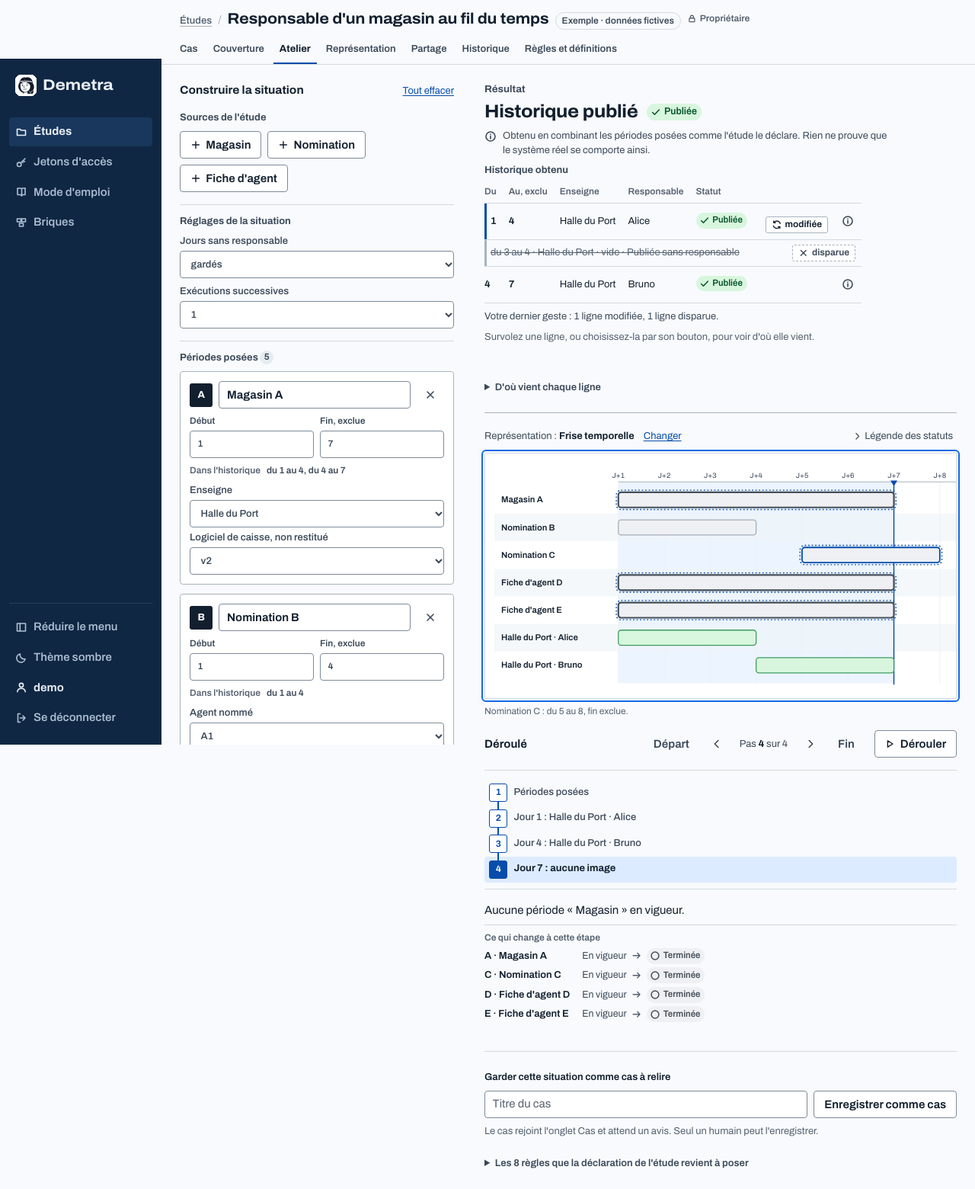
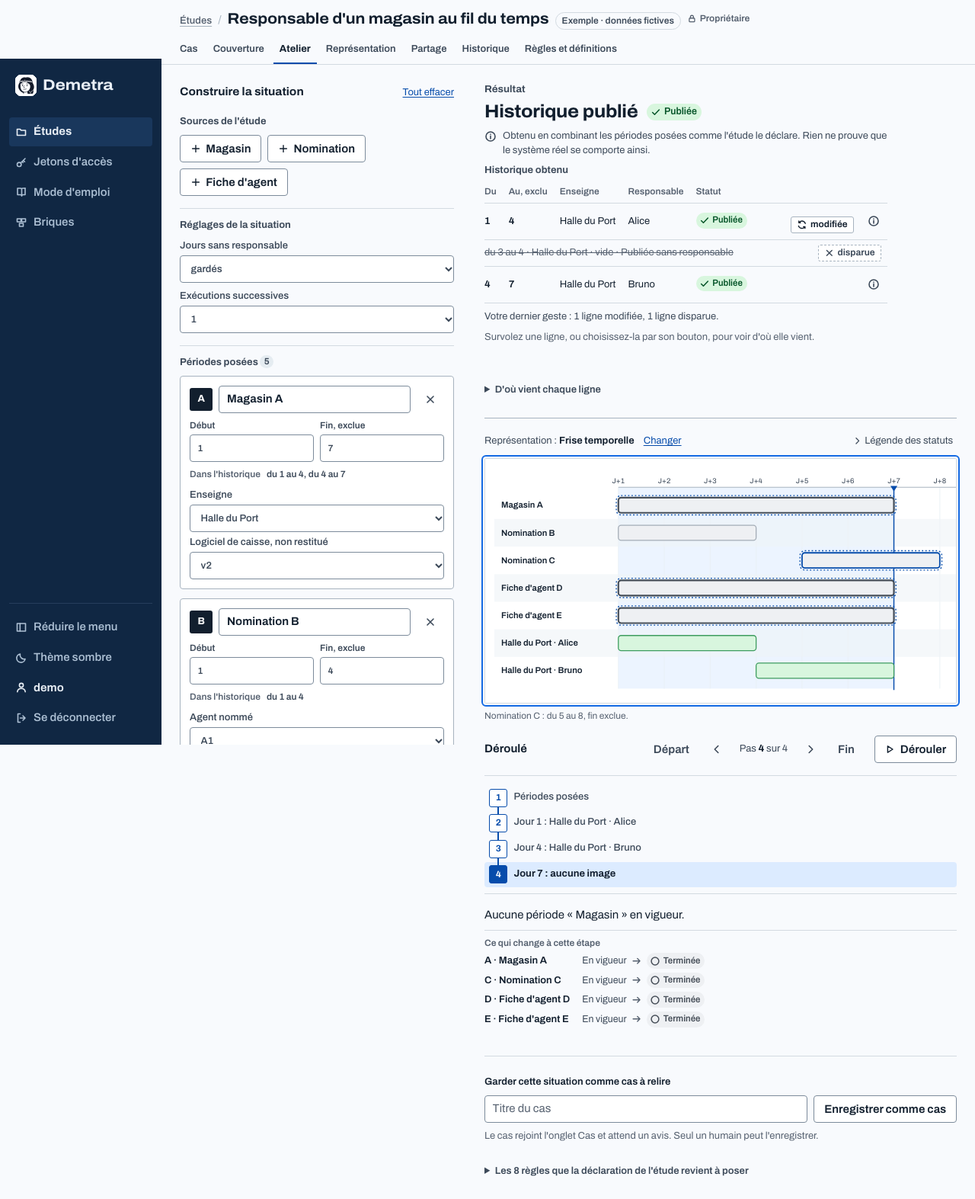
Finir l'écran d'atelier : geste au doigt et corrections de la revue de finition
- Au doigt : un toucher qui part d'une barre de la frise ou d'une brique
  ne fait plus défiler le cadre ni la page (le défilement annulait le
  geste). Parcours navigateur en émulation tactile à 390 px.
- Aucun liseré latéral sur une ligne marquée : le cartouche (mot et
  icône) porte seul la marque, comme le demande DESIGN.md.
- La place du mot du dernier geste est réservée : le tableau ne
  s'élargit plus quand les marques arrivent.
- Sous 900 px, la dernière colonne du tableau n'est plus collante (elle
  recouvrait le statut) : le tableau se resserre et défile dans son
  cadre, atteignable au clavier et annoncé « défilement possible ».
- Dans un tableau d'exécution, le mot du changement ouvre la ligne : il
  reste en vue sur petit écran.
- Cibles d'au moins 24 px (liens et titres dépliables), 2.75rem sous
  900 px ; réserves de la phrase de provenance et de celle du dernier
  geste sur petit écran ; anneau de focus entier sur le bouton de
  provenance.
- Famille « périodes » : « Nom de la période », « Retirer cette
  période », « périodes au plus par situation ».
- La phrase d'une exécution sépare ce qui change de ce qui est écrit :
  « 1 ligne modifiée ; à l'écriture : 1 ligne supprimée et 1 ligne
  écrite. » Mode d'emploi version 2026-11-25.5, exemple rejoué.
- README, DESIGN, PRODUCT, brief de surface, captures 40 à 49.

diff --git a/core/templates/core/_workshop.html b/core/templates/core/_workshop.html
@@ -16,7 +16,7 @@
       <div class="at-palette-list">
         {% for b in palette.bricks %}<button type="submit" class="btn at-add" name="add" value="{{ b.type }}"{% if palette.full %} disabled{% endif %}><svg class="ic" aria-hidden="true"><use href="#ui-plus"/></svg>{{ b.label }}</button>{% endfor %}
       </div>
-      {% if palette.full %}<p class="hint">{{ palette.max }} briques au plus par situation.</p>{% endif %}
+      {% if palette.full %}<p class="hint">{{ palette.max }} {{ words.most }}</p>{% endif %}
     </section>
 
     {% if palette.settings or palette.runs %}
@@ -34,9 +34,9 @@
         <li class="at-card" data-brick="{{ c.id }}" data-kind="{{ c.kind }}">
           <div class="at-card-head">
             <span class="at-id" aria-hidden="true">{{ c.id }}</span>
-            <label class="sr-only" for="at-name-{{ c.id }}">Nom de la brique {{ c.id }} ({{ c.brick }})</label>
+            <label class="sr-only" for="at-name-{{ c.id }}">{{ words.name }} {{ c.id }} ({{ c.brick }})</label>
             <input id="at-name-{{ c.id }}" class="at-name" type="text" name="n.{{ c.id }}" value="{{ c.label }}" maxlength="40" placeholder="{{ c.placeholder }}" autocomplete="off">
-            <button type="submit" class="icon-btn" name="del" value="{{ c.id }}" aria-label="Retirer {{ c.label }}" title="Retirer cette brique"><svg class="ic" aria-hidden="true"><use href="#ui-close"/></svg></button>
+            <button type="submit" class="icon-btn" name="del" value="{{ c.id }}" aria-label="Retirer {{ c.label }}" title="{{ words.remove }}"><svg class="ic" aria-hidden="true"><use href="#ui-close"/></svg></button>
           </div>
           {% if c.bounds %}
           <div class="at-bounds" role="group" aria-label="Bornes de {{ c.label }} sur l'axe « {{ c.bounds.axis }} »">
@@ -92,7 +92,7 @@
       <p class="at-source"><svg class="ic" aria-hidden="true"><use href="#ui-info"/></svg><span>{% if result.history %}Obtenu en combinant les périodes posées comme l'étude le déclare.{% elif result.steps %}Obtenu en {{ result.steps }} pas, en appliquant les règles que l'étude déclare.{% else %}Aucune règle de l'étude ne s'applique à cette situation : rien ne bouge.{% endif %} Rien ne prouve que le système réel se comporte ainsi.</span></p>
       {% if result.blocking %}<div class="notice notice-changed"><svg class="ic" aria-hidden="true"><use href="#ui-warning"/></svg><div><p>Le traitement est bloqué : rien n'est publié.</p><ul class="at-blocking">{% for reason in result.blocking %}<li>{{ reason }}</li>{% endfor %}</ul></div></div>{% endif %}
       {% if result.history %}
-      <div class="at-history-wrap">
+      <div class="at-history-wrap" tabindex="0" role="region" aria-label="Historique obtenu — défilement possible">
       <table class="at-history">
         <caption>Historique obtenu{% if result.runs %} à la dernière exécution{% endif %}{% if result.blocking %} s'il était publié{% endif %}</caption>
         <thead><tr><th scope="col">Du</th><th scope="col">Au, exclu</th>{% for name in result.history.fields %}<th scope="col">{{ name }}</th>{% endfor %}<th scope="col">Statut</th><th scope="col" class="at-row-end"><span class="sr-only">Provenance</span></th></tr></thead>
@@ -159,13 +159,13 @@
           {% if run.news or run.gone %}<p class="at-run-known">{% if run.news %}<span>{% if run.n == 1 %}Périodes connues{% else %}Connues depuis cette exécution{% endif %} : {{ run.news|join:", " }}.</span>{% endif %}{% if run.gone %} <span>Ne sont plus connues : {{ run.gone|join:", " }}.</span>{% endif %}</p>{% endif %}
           {% if run.blocking %}<ul class="at-blocking">{% for reason in run.blocking %}<li>{{ reason }}</li>{% endfor %}</ul>{% endif %}
           {% if run.lines or run.removed %}
-          <div class="at-history-wrap">
+          <div class="at-history-wrap" tabindex="0" role="region" aria-label="{{ run.title }} — défilement possible">
           <table class="at-history at-history-run">
             <caption class="sr-only">Ce qui est publié après {{ run.title }}</caption>
-            <thead><tr><th scope="col">Du</th><th scope="col">Au, exclu</th>{% for name in result.history.fields %}<th scope="col">{{ name }}</th>{% endfor %}<th scope="col">Statut</th><th scope="col" class="at-row-end"><span class="sr-only">Ce que fait cette exécution</span></th></tr></thead>
+            <thead><tr><th scope="col" class="at-row-start"><span class="sr-only">Ce que fait cette exécution</span></th><th scope="col">Du</th><th scope="col">Au, exclu</th>{% for name in result.history.fields %}<th scope="col">{{ name }}</th>{% endfor %}<th scope="col">Statut</th></tr></thead>
             <tbody>
-              {% for row in run.lines %}<tr{% if row.row %} class="{{ row.row }}"{% endif %} data-change="{{ row.change }}"><td class="num">{{ row.start }}</td><td class="num">{{ row.end }}</td>{% for value in row.values %}<td>{% if value %}{{ value }}{% else %}<span class="at-void">vide</span>{% endif %}</td>{% endfor %}<td><span class="st" data-role="{{ row.role }}"><svg class="st-ic" width="14" height="14" aria-hidden="true"><use href="#ic-{{ row.role }}"/></svg><span class="st-tx">{{ row.status }}</span></span></td><td class="at-row-end"><span class="at-delta at-delta-{{ row.change }}"{% if row.was %} title="Avant : {{ row.was }}"{% endif %}><svg class="ic" aria-hidden="true"><use href="#ui-{{ row.icon }}"/></svg>{{ row.word }}</span>{% if row.was %}<span class="sr-only"> Avant : {{ row.was }}.</span>{% endif %}</td></tr>
-              {% endfor %}{% for row in run.removed %}<tr class="is-gone" data-change="removed"><td colspan="{{ result.history.fields|length|add:3 }}"><del>{{ row.text }}</del></td><td class="at-row-end"><span class="at-delta at-delta-removed"><svg class="ic" aria-hidden="true"><use href="#ui-close"/></svg>{{ row.word }}</span></td></tr>
+              {% for row in run.lines %}<tr{% if row.row %} class="{{ row.row }}"{% endif %} data-change="{{ row.change }}"><td class="at-row-start"><span class="at-delta at-delta-{{ row.change }}"{% if row.was %} title="Avant : {{ row.was }}"{% endif %}><svg class="ic" aria-hidden="true"><use href="#ui-{{ row.icon }}"/></svg>{{ row.word }}</span>{% if row.was %}<span class="sr-only"> Avant : {{ row.was }}.</span>{% endif %}</td><td class="num">{{ row.start }}</td><td class="num">{{ row.end }}</td>{% for value in row.values %}<td>{% if value %}{{ value }}{% else %}<span class="at-void">vide</span>{% endif %}</td>{% endfor %}<td><span class="st" data-role="{{ row.role }}"><svg class="st-ic" width="14" height="14" aria-hidden="true"><use href="#ic-{{ row.role }}"/></svg><span class="st-tx">{{ row.status }}</span></span></td></tr>
+              {% endfor %}{% for row in run.removed %}<tr class="is-gone" data-change="removed"><td class="at-row-start"><span class="at-delta at-delta-removed"><svg class="ic" aria-hidden="true"><use href="#ui-close"/></svg>{{ row.word }}</span></td><td colspan="{{ result.history.fields|length|add:3 }}"><del>{{ row.text }}</del></td></tr>
               {% endfor %}
             </tbody>
           </table>

diff --git a/core/static/core/app.css b/core/static/core/app.css
@@ -782,6 +782,9 @@ details.json pre { margin-top: var(--s-2); max-height: 24rem; }
 .at-build-head { display: flex; align-items: baseline; justify-content: space-between; gap: var(--s-3); }
 .at-build-head h2 { font-size: var(--t-md); }
 .at-build-head .link { font-size: var(--t-sm); }
+/* Cibles d'au moins 24 px : les liens et les titres dépliables de l'écran, sans changer le rythme des lignes. */
+.at-build-head .link, .at-runs-jump .link, .at-plan .cp-rep-head .link { display: inline-block; padding-block: 0.2rem; }
+.at-why > summary, .at-rules > summary { padding-block: 0.2rem; }
 .at-build h3 { color: var(--ink-2); font-size: var(--t-sm); font-weight: 680; }
 .at-palette, .at-settings, .at-placed { display: grid; gap: var(--s-2); min-width: 0; }
 .at-settings, .at-placed { padding-top: var(--s-3); border-top: 1px solid var(--line); }
@@ -837,10 +840,13 @@ details.json pre { margin-top: var(--s-2); max-height: 24rem; }
 .at-feeds > span:last-child { color: var(--ink-2); font-variant-numeric: tabular-nums; }
 /* D'où vient une ligne : on la survole ou on la choisit, ses périodes sources se détachent sur la frise, dans
    les fiches et dans la liste des règles. Sans script, la liste « D'où vient chaque ligne » dit la même chose. */
-/* La dernière colonne reste en vue quand le tableau défile dans son cadre : le mot du changement et le bouton
-   de provenance ne sortent jamais de l'écran. */
+/* La dernière colonne reste en vue quand le tableau défile dans son cadre, sauf sur petit écran (voir plus
+   bas) où elle recouvrirait le statut. */
 .at-history .at-row-end { position: sticky; right: 0; width: 1%; padding-right: 0; padding-left: var(--s-2); background: var(--surface); text-align: right; white-space: nowrap; }
 .at-why-btn { display: none; }
+.at-why-btn:focus-visible { outline-offset: -2px; }   /* dans un cadre qui défile : l'anneau reste entier */
+/* La place du mot du dernier geste est réservée : le tableau ne s'élargit pas quand les marques arrivent. */
+.atelier.is-live .at-history [data-delta-cell] { min-width: 10.5rem; }
 .atelier.is-live .at-why-btn { display: inline-grid; }
 .at-why-btn[aria-pressed="true"] { background: var(--accent-soft); color: var(--accent); }
 .atelier.is-live .at-history tbody tr[data-start] { cursor: pointer; }
@@ -859,7 +865,10 @@ details.json pre { margin-top: var(--s-2); max-height: 24rem; }
 .at-plan .tl-bar.is-traced .n-halo { stroke: var(--accent); stroke-width: 2.4; stroke-dasharray: none; opacity: 1; }
 .at-plan .tl-grip { fill: transparent; pointer-events: none; }
 /* Une période posée se déplace sur la frise, ou s'étire par un bord ; ses champs de bornes disent la même chose. */
-.atelier.is-live .at-plan .tl-bar.is-movable { cursor: grab; touch-action: none; -webkit-user-select: none; user-select: none; }
+.atelier.is-live .at-plan .tl-bar.is-movable { cursor: grab; -webkit-user-select: none; user-select: none; }
+/* Au doigt, la barre se glisse sans que la frise défile sous elle. La règle vise les formes : un groupe SVG n'a
+   pas de boîte, « touch-action » n'y a aucun effet. */
+.atelier.is-live .at-plan .tl-bar.is-movable > * { touch-action: none; }
 .atelier.is-live .at-plan .tl-bar.is-movable .tl-grip { pointer-events: all; cursor: ew-resize; }
 .atelier.is-live .at-plan .tl-bar.is-movable:hover .n-shape, .at-plan .tl-bar.is-moving .n-shape { stroke: var(--accent); stroke-width: 2; }
 .atelier.is-dragging .at-plan .tl-bar.is-moving, .atelier.is-dragging .at-plan .tl-bar.is-moving .tl-grip { cursor: grabbing; }
@@ -874,9 +883,8 @@ details.json pre { margin-top: var(--s-2); max-height: 24rem; }
 .at-delta .ic { width: 0.85rem; height: 0.85rem; }
 .at-delta-new { border-color: var(--accent); color: var(--accent); }
 .at-delta-gone { border-style: dashed; color: var(--ink-2); }
-.at-history tbody tr.is-new > td:first-child, .at-history tbody tr.is-changed > td:first-child { box-shadow: inset 3px 0 0 var(--accent); padding-left: var(--s-2); }
+/* Aucun liseré latéral sur une ligne marquée : le mot et son icône portent la marque. */
 .at-history tbody tr.is-gone > td { color: var(--ink-3); }
-.at-history tbody tr.is-gone > td:first-child { padding-left: var(--s-2); box-shadow: inset 3px 0 0 var(--line-strong); }
 .at-rules li.is-traced { background: var(--accent-soft); color: var(--ink); }
 /* Exécutions successives : ce que chacune a publié, avec le même vocabulaire de marques que le dernier geste
    (un mot et une icône par ligne, jamais la couleur seule). */
@@ -895,6 +903,9 @@ details.json pre { margin-top: var(--s-2); max-height: 24rem; }
 .at-run-known { max-width: 72ch; color: var(--ink-2); font-size: var(--t-xs); }
 .at-run .at-blocking { color: var(--ink-2); font-size: var(--t-sm); }
 .at-history-run { width: 100%; }
+/* Dans un tableau d'exécution, le mot du changement ouvre la ligne : il reste en vue quand le tableau défile. */
+.at-history .at-row-start { width: 1%; white-space: nowrap; }
+.at-history .at-row-start .at-delta { margin-right: 0; }
 .at-blocking { margin-top: var(--s-1); padding-left: 1.1em; list-style: disc; }
 .at-source { display: flex; gap: var(--s-2); align-items: flex-start; max-width: 72ch; color: var(--ink-2); font-size: var(--t-sm); }
 .at-source .ic { flex: none; margin-top: 0.2em; }
@@ -951,7 +962,20 @@ details.json pre { margin-top: var(--s-2); max-height: 24rem; }
 @media (max-width: 900px) {
   .at-grid { grid-template-columns: minmax(0, 1fr); gap: var(--s-5); }
   .at-build { position: static; max-height: none; padding-right: 0; overflow: visible; }
-  .at-jump { display: inline; font-size: var(--t-sm); }
+  .at-jump { display: inline-block; font-size: var(--t-sm); }
+  /* Cibles au doigt : les liens et les titres dépliables de l'écran font au moins 2.75rem de haut. */
+  .at-jump, .at-build-head .link, .at-runs-jump .link, .at-plan .cp-rep-head .link { display: inline-block; padding-block: 0.75rem; }
+  .at-why > summary, .at-rules > summary { padding-block: 0.75rem; }
+  /* Sur petit écran le tableau défile dans son cadre, en entier : sa dernière colonne n'est plus collante, elle
+     recouvrirait le statut. */
+  .at-history { min-width: 0; }
+  .at-history .at-row-end { position: static; }
+  .at-history th, .at-history td { padding-right: var(--s-2); }
+  /* Le tableau principal tient dans la fenêtre : sa pastille de statut passe à la ligne, en étiquette. */
+  .at-history:not(.at-history-run) .st { border-radius: var(--radius-lg); white-space: normal; }
+  .atelier.is-live .at-history [data-delta-cell] { min-width: 0; }
+  .atelier.is-live .at-trace { min-height: 7.6em; }
+  .atelier.is-live .at-delta-note { min-height: 3em; }
   .tick { min-height: 2.75rem; }
   .at-links .icon-btn { width: 2.75rem; height: 2.75rem; }
   .at-result-value { font-size: var(--t-xl); }

diff --git a/core/static/core/app.js b/core/static/core/app.js
@@ -629,6 +629,11 @@
       else if (node) drag = Object.assign(at, { id: node.dataset.e, node: node });
       else if (bar) drag = Object.assign(at, { period: bar.dataset.p, node: bar, grip: event.target.dataset.grip || "move" });
     });
+    // Au doigt : sans cela, le cadre défile sous la brique ou la barre qu'on veut glisser et le geste est annulé
+    // (« touch-action » n'a pas d'effet sur les formes d'un dessin SVG dans tous les navigateurs).
+    atelier.addEventListener("touchstart", (event) => {
+      if (event.target.closest("[data-at-plan] .tl-bar.is-movable, [data-at-plan] .n[data-e]")) event.preventDefault();
+    }, { passive: false });
     doc.addEventListener("pointermove", (event) => {
       if (!drag) return;
       if (!drag.live) {

diff --git a/tests/e2e/test_parcours.py b/tests/e2e/test_parcours.py
@@ -1011,6 +1011,56 @@ def watched(page) -> list[str]:
     return problems
 
 
+def test_atelier_frise_au_doigt(site, browser):
+    """Sur un téléphone, au doigt : glisser une période sur la frise la déplace, sans que le cadre ni la page
+    ne défilent sous elle ; toucher une barre mène à sa fiche."""
+    context = browser.new_context(
+        viewport={"width": 390, "height": 844}, locale="fr-FR", has_touch=True, is_mobile=True
+    )
+    page = context.new_page()
+    problems = watched(page)
+    login(page, site, "demo")
+    page.goto(f"{site}/etudes/")
+    page.get_by_role("link", name="Responsable d'un magasin au fil du temps").click()
+    page.goto(page.url.split("?")[0] + "atelier/?e=A%3Amagasin&e=B%3Anomination&de.A=1&a.A=7&de.B=1&a.B=3")
+    cdp = context.new_cdp_session(page)
+
+    def finger(kind: str, x: float | None = None, y: float | None = None) -> None:
+        points = [] if x is None else [{"x": x, "y": y, "id": 1}]
+        cdp.send("Input.dispatchTouchEvent", {"type": kind, "touchPoints": points})
+
+    bar = page.locator('[data-at-plan] .tl-bar[data-p="B"]')
+    bar.scroll_into_view_if_needed()
+    box = bar.locator(".n-shape").bounding_box()
+    unit = page.evaluate(
+        """() => { const svg = document.querySelector('[data-at-plan] svg[data-span]');
+        const [lo, hi, , w] = svg.dataset.span.split(' ').map(Number);
+        return w / (hi - lo) * svg.getScreenCTM().a; }"""
+    )
+    x, y = box["x"] + box["width"] / 2, box["y"] + box["height"] / 2
+    offsets = """() => { const all = [scrollY];
+        let e = document.querySelector('[data-at-plan] .tl-bar[data-p="B"]');
+        for (; e; e = e.parentElement) all.push(e.scrollLeft || 0);
+        return all; }"""
+    scrolled = page.evaluate(offsets)
+    finger("touchStart", x, y)
+    for n in range(1, 9):
+        finger("touchMove", x + 2 * unit * n / 8, y)
+        page.wait_for_timeout(20)
+    expect(page.locator("[data-at-hint-text]")).to_have_text("Nomination B : du 3 au 5, fin exclue.")
+    assert page.evaluate(offsets) == scrolled
+    finger("touchEnd")
+    expect(page.locator('input[name="de.B"]')).to_have_value("3")
+    expect(page.locator('input[name="a.B"]')).to_have_value("5")
+    # Toucher sans glisser : la fiche de la période.
+    box = page.locator('[data-at-plan] .tl-bar[data-p="A"] .n-shape').bounding_box()
+    page.touchscreen.tap(box["x"] + 20, box["y"] + box["height"] / 2)
+    expect(page.locator("#at-name-A")).to_be_focused()
+    assert page.evaluate("document.documentElement.scrollWidth <= document.documentElement.clientWidth")
+    assert not problems, problems
+    context.close()
+
+
 def test_atelier_executions_successives(site, browser):
     """L'étude de démonstration déclare des exécutions successives : on dit qu'une période n'est connue qu'à
     partir d'une exécution, et chaque exécution montre ce qu'elle ajoute, ferme, modifie, retire ou laisse."""
@@ -1037,9 +1087,12 @@ def test_atelier_executions_successives(site, browser):
     # La seconde nomination et la fiche de son agent n'arrivent qu'à la deuxième exécution.
     page.select_option('select[name="c.C"]', "2")
     page.select_option('select[name="c.E"]', "2")
-    expect(runs.nth(0).locator(".at-run-text")).to_have_text("2 lignes ajoutées ; 2 lignes écrites.")
+    expect(runs.nth(0).locator(".at-run-text")).to_have_text(
+        "2 lignes ajoutées ; à l'écriture : 2 lignes écrites."
+    )
     expect(runs.nth(1).locator(".at-run-text")).to_have_text(
-        "1 ligne ajoutée, 1 ligne fermée et 1 ligne inchangée ; 1 ligne supprimée et 2 lignes écrites."
+        "1 ligne ajoutée, 1 ligne fermée et 1 ligne inchangée ; "
+        "à l'écriture : 1 ligne supprimée et 2 lignes écrites."
     )
     expect(runs.nth(1).locator(".at-run-known")).to_have_text(
         "Connues depuis cette exécution : Nomination C, Fiche d'agent E."
@@ -1052,7 +1105,8 @@ def test_atelier_executions_successives(site, browser):
     # À la troisième, la première nomination n'est plus connue : sa ligne change, une autre est retirée.
     page.select_option('select[name="j.B"]', "2")
     expect(runs.nth(2).locator(".at-run-text")).to_have_text(
-        "1 ligne modifiée, 1 ligne inchangée et 1 ligne retirée ; 2 lignes supprimées et 1 ligne écrite."
+        "1 ligne modifiée, 1 ligne inchangée et 1 ligne retirée ; "
+        "à l'écriture : 2 lignes supprimées et 1 ligne écrite."
     )
     expect(runs.nth(2).locator(".at-delta")).to_have_text(["modifiée", "inchangée", "retirée"])
     expect(runs.nth(2).locator("del")).to_have_text(

diff --git a/tests/test_periodes.py b/tests/test_periodes.py
@@ -646,10 +646,10 @@ def test_a_first_run_a_run_without_change_then_a_correction():
     new = {**contrat("B", 1, 7, offre="Plus"), "known_from": 3}
     result, told = successive([old, new], 3)
     assert told == [
-        ("Passage 1 : 1 ligne ajoutée ; 1 ligne écrite.", [(1, 7, "Base", "added")], (0, 1)),
+        ("Passage 1 : 1 ligne ajoutée ; à l'écriture : 1 ligne écrite.", [(1, 7, "Base", "added")], (0, 1)),
         ("Passage 2 : 1 ligne inchangée ; rien n'est écrit.", [(1, 7, "Base", "same")], (0, 0)),
         (
-            "Passage 3 : 1 ligne modifiée ; 1 ligne supprimée et 1 ligne écrite.",
+            "Passage 3 : 1 ligne modifiée ; à l'écriture : 1 ligne supprimée et 1 ligne écrite.",
             [(1, 7, "Plus", "changed")],
             (1, 1),
         ),
@@ -673,14 +673,17 @@ def test_a_run_adds_closes_and_removes_lines():
     third = {**contrat("C", 2, 7, offre="Plus"), "known_from": 3}
     _, told = successive([first, second, third], 3)
     assert told[1] == (
-        "Passage 2 : 1 ligne ajoutée et 1 ligne fermée ; 1 ligne supprimée et 2 lignes écrites.",
+        (
+            "Passage 2 : 1 ligne ajoutée et 1 ligne fermée ; "
+            "à l'écriture : 1 ligne supprimée et 2 lignes écrites."
+        ),
         [(1, 4, "Base", "closed"), (4, 7, "Plus", "added")],
         (1, 2),
     )
     assert told[2] == (
         (
-            "Passage 3 : 1 ligne ajoutée, 1 ligne fermée et 1 ligne retirée ; 2 lignes supprimées et "
-            "2 lignes écrites."
+            "Passage 3 : 1 ligne ajoutée, 1 ligne fermée et 1 ligne retirée ; "
+            "à l'écriture : 2 lignes supprimées et 2 lignes écrites."
         ),
         [(1, 2, "Base", "closed"), (2, 7, "Plus", "added"), (4, 7, "Plus", "removed")],
         (2, 2),
@@ -706,7 +709,7 @@ def test_a_blocked_run_publishes_nothing_and_the_next_one_repairs():
 def test_the_study_declares_what_a_run_writes():
     _, told = successive([contrat("A", 1, 7)], 2, write="all")
     assert told[1] == (
-        "Passage 2 : 1 ligne inchangée ; 1 ligne supprimée et 1 ligne écrite.",
+        "Passage 2 : 1 ligne inchangée ; à l'écriture : 1 ligne supprimée et 1 ligne écrite.",
         [(1, 7, "Base", "same")],
         (1, 1),
     )
@@ -781,10 +784,10 @@ def test_the_api_and_the_page_show_each_run(api, web):
     }
     status, data = api.post(f"/studies/{sid}/workshop/run", {"situation": raw})
     assert status == 200, data
-    assert [entry["text"].split(" : ")[1] for entry in data["runs"]] == [
-        "1 ligne ajoutée ; 1 ligne écrite.",
+    assert [entry["text"].partition(" : ")[2] for entry in data["runs"]] == [
+        "1 ligne ajoutée ; à l'écriture : 1 ligne écrite.",
         "1 ligne inchangée ; rien n'est écrit.",
-        "1 ligne modifiée ; 1 ligne supprimée et 1 ligne écrite.",
+        "1 ligne modifiée ; à l'écriture : 1 ligne supprimée et 1 ligne écrite.",
     ]
     line = data["runs"][2]["lines"][0]
     assert (line["change"], line["was"]["fields"]["offre"], line["fields"]["offre"]) == (

diff --git a/core/views/atelier.py b/core/views/atelier.py
@@ -33,6 +33,9 @@ WORDS = {
         "palette": "Briques de l'étude",
         "drop": "Glissez ici une brique de la palette, ou cliquez-la.",
         "placed": "Briques posées",
+        "name": "Nom de la brique",
+        "remove": "Retirer cette brique",
+        "most": "briques au plus par situation.",
         "none": "Aucune pour l'instant. Posez-en une : elle apparaît ici avec ses options.",
         "empty": "Posez des briques, reliez-les, réglez leurs options. Le site applique les règles que "
         "l'étude déclare et montre ici ce qui se passe, pas après pas. Aucun cas déposé n'intervient.",
@@ -48,6 +51,9 @@ WORDS = {
         "palette": "Sources de l'étude",
         "drop": "Glissez ici une source de la palette, ou cliquez-la : une période se pose.",
         "placed": "Périodes posées",
+        "name": "Nom de la période",
+        "remove": "Retirer cette période",
+        "most": "périodes au plus par situation.",
         "none": "Aucune pour l'instant. Posez-en une : elle apparaît ici avec ses bornes et ses champs.",
         "empty": "Posez des périodes, donnez-leur un début, une fin et des valeurs. Le site les combine "
         "comme l'étude le déclare et montre ici l'historique obtenu. Aucun cas déposé n'intervient.",

diff --git a/core/periods.py b/core/periods.py
@@ -451,6 +451,7 @@ HOW_INVALID = {
     "inverted": "une période qui finit avant de commencer",
 }
 NOTHING_WRITTEN = "rien n'est écrit"
+WRITING = "à l'écriture : "
 HOW_WRITE = {
     "differences": "Seules les lignes qui diffèrent sont écrites ; sans différence, rien n'est écrit.",
     "all": "Tout l'historique est réécrit à chaque exécution, même sans différence.",
@@ -965,7 +966,7 @@ def _run_text(decl: dict, entry: dict) -> str:
     said = [lines(changes.count(key), word) for key, word in CHANGES.items() if key in changes]
     deleted, appended = entry["written"]["deleted"], entry["written"]["appended"]
     wrote = [lines(n, word) for n, word in ((deleted, "supprimée"), (appended, "écrite")) if n]
-    return f"{name} : {_listed(said)} ; {_listed(wrote) if wrote else NOTHING_WRITTEN}."
+    return f"{name} : {_listed(said)} ; {WRITING + _listed(wrote) if wrote else NOTHING_WRITTEN}."
 
 
 def successive(decl: dict, situation: dict) -> list[dict]:

diff --git a/demetra/settings.py b/demetra/settings.py
@@ -134,7 +134,7 @@ if os.environ.get("DEMETRA_STATIC_MANIFEST") == "1":
 DEFAULT_AUTO_FIELD = "django.db.models.BigAutoField"
 
 # Demetra
-DEMETRA_GUIDE_VERSION = "2026-11-25.4"
+DEMETRA_GUIDE_VERSION = "2026-11-25.5"
 DEMETRA_TOKEN_PREFIX = "dmt"
 DEMETRA_SSE_MAX_SECONDS = int(os.environ.get("DEMETRA_SSE_MAX_SECONDS", "55"))
 DEMETRA_MAX_BATCH = 200

diff --git a/DESIGN.md b/DESIGN.md
@@ -498,9 +498,9 @@ Neuf représentations s'ajoutent aux sept premières ; elles suivent les mêmes 
 - **Rechargement.** Tout changement remplace la zone sans recharger la page ; le focus reste où il était, l'adresse suit et ne garde que la situation. Sans script, le bouton « Mettre à jour le résultat » fait de même en rechargeant. Aucune animation hors du défilement des pas.
 - **Sans règles.** Une étude qui ne déclare pas de règles montre un encadré `empty` : pourquoi il n'y a pas d'atelier, et un bouton vers ses cas.
 - **Atelier de périodes.** Même écran, mêmes places ; seuls les mots changent (« Sources de l'étude », « Périodes posées »). La fiche d'une période porte, sous son nom, deux champs numériques côte à côte, « Début » et « Fin, exclue », en chiffres tabulaires ; ni évènements ni liens. Une borne vidée reste vide : c'est une borne absente. À droite, sous le résultat, le tableau « Historique obtenu » : Du, Au (exclu), une colonne par champ restitué, le statut en pastille ; une valeur absente s'écrit « vide » en italique `ink-3` ; le tableau défile dans son cadre sous 390 px. Si le traitement est bloqué, un encadré `warning` le dit avant le tableau et liste les raisons. Dans le plan de travail, une frise garde une largeur minimale de 52rem et défile dans son cadre ; la phrase d'aide dit comment déplacer et étirer une période (voir « Frise manipulable »). La touche Entrée dans un champ met à jour le résultat.
-- **Exécutions successives.** Quand l'étude en déclare : un réglage « Exécutions successives » (liste de 1 au nombre permis) avec les autres réglages. À partir de 2, chaque fiche porte, sous ses bornes et dans la même grille à deux colonnes, « Connue à partir de » et « Jusqu'à » (listes : « Exécution 1 »… ; « la dernière » par défaut). Le tableau principal s'intitule « Historique obtenu à la dernière exécution » et un lien mène à la section. Celle-ci vient après le déroulé, avant l'enregistrement : titre `t-md`, une phrase d'aide, puis une exécution par bloc séparé d'un filet — son nom en `t-sm` gras, sa phrase en `ink`, les périodes découvertes ou perdues en `t-xs` `ink-2`, et le tableau de ce qu'elle publie, au gabarit de l'historique. Dernière colonne collante : le mot du changement dans le cartouche des marques — « ajoutée » (`accent`, plus), « fermée » (cadenas), « modifiée » (icône de changement), « retirée » (pointillé, sur une ligne barrée), « inchangée » (sans cadre, `ink-3`, coche) ; l'ancienne ligne en infobulle et pour les lecteurs d'écran. Rien n'est animé ; la section n'existe pas tant qu'il n'y a qu'une exécution.
-- **Frise manipulable.** Une période posée se saisit sur la frise : curseur `grab` sur la barre, `ew-resize` sur ses deux bords (zones de 7 à 13 px, sans dessin propre) ; au survol et pendant le geste, le contour passe en `accent`, 2 px. Glisser déplace la barre d'un nombre entier de pas de l'axe ; tirer un bord le cale sur la grille de l'axe, jamais au-delà de l'autre bord ni hors de l'axe. Pendant le geste seule la barre est redessinée : ni le schéma ni la page ne changent de dimensions, et la ligne d'aide, à hauteur figée, dit « Nomination B : du 1 au 4, fin exclue. ». Au lâcher, les deux champs de la fiche prennent ces valeurs ; Échap rend la barre. Un clic sans glisser mène à la fiche. Au doigt, le geste est le même (`touch-action: none` sur les barres ; la frise défile par ses marges). Les barres de l'historique ne se saisissent pas. Aucune animation.
-- **Ce que le dernier geste a changé.** Dans la dernière colonne du tableau, un mot dans un cartouche à icône : « nouvelle » (contour et texte `accent`, icône plus), « modifiée » (contour `line-strong`, icône de changement, l'ancienne ligne en infobulle et pour les lecteurs d'écran), « disparue » (contour pointillé, icône de fermeture, sur une ligne barrée en `ink-3`). Un filet de 3 px en tête de ligne double le mot, jamais seul. Une phrase sous le tableau compte les changements ou dit qu'il n'y en a pas. La dernière colonne est collante à droite : sur petit écran, quand le tableau défile dans son cadre, le mot et le bouton de provenance restent en vue. Les marques durent jusqu'au geste suivant.
+- **Exécutions successives.** Quand l'étude en déclare : un réglage « Exécutions successives » (liste de 1 au nombre permis) avec les autres réglages. À partir de 2, chaque fiche porte, sous ses bornes et dans la même grille à deux colonnes, « Connue à partir de » et « Jusqu'à » (listes : « Exécution 1 »… ; « la dernière » par défaut). Le tableau principal s'intitule « Historique obtenu à la dernière exécution » et un lien mène à la section. Celle-ci vient après le déroulé, avant l'enregistrement : titre `t-md`, une phrase d'aide, puis une exécution par bloc séparé d'un filet — son nom en `t-sm` gras, sa phrase en `ink`, les périodes découvertes ou perdues en `t-xs` `ink-2`, et le tableau de ce qu'elle publie, au gabarit de l'historique. Première colonne : le mot du changement dans le cartouche des marques, pour qu'il reste en vue quand le tableau défile dans son cadre sur petit écran — « ajoutée » (`accent`, plus), « fermée » (cadenas), « modifiée » (icône de changement), « retirée » (pointillé, sur une ligne barrée), « inchangée » (sans cadre, `ink-3`, coche) ; l'ancienne ligne en infobulle et pour les lecteurs d'écran. Rien n'est animé ; la section n'existe pas tant qu'il n'y a qu'une exécution.
+- **Frise manipulable.** Une période posée se saisit sur la frise : curseur `grab` sur la barre, `ew-resize` sur ses deux bords (zones de 7 à 13 px, sans dessin propre) ; au survol et pendant le geste, le contour passe en `accent`, 2 px. Glisser déplace la barre d'un nombre entier de pas de l'axe ; tirer un bord le cale sur la grille de l'axe, jamais au-delà de l'autre bord ni hors de l'axe. Pendant le geste seule la barre est redessinée : ni le schéma ni la page ne changent de dimensions, et la ligne d'aide, à hauteur figée, dit « Nomination B : du 1 au 4, fin exclue. ». Au lâcher, les deux champs de la fiche prennent ces valeurs ; Échap rend la barre. Un clic sans glisser mène à la fiche. Au doigt, le geste est le même : un toucher qui part d'une barre ou d'une brique ne fait défiler ni la frise ni la page (le script retient le défilement, `touch-action` ne suffisant pas sur les formes d'un dessin SVG) ; la frise défile par ses marges. Les barres de l'historique ne se saisissent pas. Aucune animation.
+- **Ce que le dernier geste a changé.** Dans la dernière colonne du tableau, un mot dans un cartouche à icône : « nouvelle » (contour et texte `accent`, icône plus), « modifiée » (contour `line-strong`, icône de changement, l'ancienne ligne en infobulle et pour les lecteurs d'écran), « disparue » (contour pointillé, icône de fermeture, sur une ligne barrée en `ink-3`). Aucun liseré latéral ne double le mot : le cartouche et son icône portent la marque. Une phrase sous le tableau compte les changements ou dit qu'il n'y en a pas. La place du mot est réservée dans la dernière colonne : le tableau ne s'élargit pas quand les marques arrivent. Cette colonne est collante à droite tant que la fenêtre dépasse 900 px ; en dessous, le tableau se resserre (la pastille de statut passe à la ligne, en étiquette à coins de 6 px) et défile en entier dans son cadre, pour que le statut ne passe jamais sous elle : le mot s'y lit en faisant défiler le tableau, la phrase qui compte les changements restant toujours en vue. Ce cadre, comme celui d'un schéma, s'atteint au clavier et s'annonce « défilement possible ». Les marques durent jusqu'au geste suivant.
 - **Provenance d'une ligne.** Chaque ligne de l'historique finit par un bouton à icône « info ». Survol, focus ou clic : la ligne passe en `accent-soft`, ses périodes sources gardent leur opacité sur la frise et prennent un halo `accent`, les autres barres tombent à 30 % ; les fiches concernées et les règles en cause prennent le liseré ou le fond d'accent. Une phrase sous le tableau, à hauteur réservée (rien ne bouge au survol), dit la période retenue par source et les règles ; au repos elle dit comment s'en servir, en `ink-3`. Un clic ou Entrée garde la ligne (`aria-pressed`), Échap la lâche. Sans script : le bouton et la phrase disparaissent, la liste repliable « D'où vient chaque ligne » reste. La fiche d'une période dit « Dans l'historique : du 1 au 3, du 3 au 5 », ou « aucune ligne » ; une période invalide ou ignorée garde sa pastille, sous « Hors du calcul ». Le compte des briques par état final n'est pas montré pour des périodes : le tableau le remplace.
 
 ### Messages

diff --git a/PRODUCT.md b/PRODUCT.md
@@ -43,7 +43,7 @@ Un lieu durable où une IA externe dépose des cas illustrés et où des humains
 - Les représentations sont des assemblages de briques fournies par le site (formes, dispositions, liaisons donnée→visuel, évolution dans le temps, composition), décrits par un document JSON validé. Le site n'exécute jamais de code fourni par l'IA.
 - Seize représentations fournies : sept d'origine (graphe, tables, frise, couloirs, vignettes) et neuf pour les règles et processus (matrice croisée, calcul pas à pas, axe à bandes, avant / après, table de règles, arbre de décision, table d'états, diagramme d'états, diagramme de séquence). Toutes sont dessinées par le site, sans bibliothèque de mise en page.
 - Le format de cas porte, en option : valeurs chiffrées, champs d'entité, messages entre acteurs, mesures ; l'étude peut déclarer des tranches, un jeu de règles et des cycles de vie. Le site contrôle la cohérence entre les deux et donne le chemin exact de chaque erreur.
-- Atelier : l'onglet « Atelier » part d'une page vide. L'utilisateur y construit sa propre situation avec les briques que l'étude déclare (il les pose, les relie, règle leurs options, provoque un évènement), et le site montre ce que les règles de l'étude en font, pas après pas. Aucun cas déposé n'y figure. Les règles sont déclarées par l'étude dans un vocabulaire fermé, que le site exécute lui-même : aucun code fourni par l'étude ne l'est. Une étude sans règles déclarées n'a pas d'atelier et garde ses cas. Le résultat est toujours donné pour ce qu'il est, ce que disent les règles déclarées, et ne reçoit jamais d'avis ; un humain peut enregistrer la situation comme cas, pas une IA. Deux familles d'atelier existent, une par étude : des éléments reliés qui changent d'état, ou des périodes datées que le site combine en un historique (l'étude déclare alors ses sources et la façon de composer une image, pas une table de règles).
+- Atelier : l'onglet « Atelier » part d'une page vide. L'utilisateur y construit sa propre situation avec les briques que l'étude déclare (il les pose, les relie, règle leurs options, provoque un évènement), et le site montre ce que les règles de l'étude en font, pas après pas. Aucun cas déposé n'y figure. Les règles sont déclarées par l'étude dans un vocabulaire fermé, que le site exécute lui-même : aucun code fourni par l'étude ne l'est. Une étude sans règles déclarées n'a pas d'atelier et garde ses cas. Le résultat est toujours donné pour ce qu'il est, ce que disent les règles déclarées, et ne reçoit jamais d'avis ; un humain peut enregistrer la situation comme cas, pas une IA. Deux familles d'atelier existent, une par étude : des éléments reliés qui changent d'état, ou des périodes datées que le site combine en un historique (l'étude déclare alors ses sources et la façon de composer une image, pas une table de règles). Dans un atelier de périodes, chaque ligne de l'historique dit de quelles périodes elle vient et quelle règle l'a produite ; après un geste, le site marque ce qui est apparu, a changé ou a disparu ; une période se déplace et s'étire sur la frise, à la souris comme au doigt ; et une étude peut déclarer que son traitement repasse, le site montrant alors ce que chaque exécution ajoute, ferme, modifie ou laisse par rapport à ce qui était publié. Une IA peut faire valider une déclaration d'atelier sans rien écrire.
 - Cas paramétré : un cas peut couvrir plusieurs situations par des paramètres et des étapes conditionnelles, dans un vocabulaire fermé ; le site rejoue chaque combinaison au dépôt. L'avis porte sur le cas entier.
 - **Une étude = une représentation.** L'IA qui dépose l'étude la fixe ; le relecteur peut en changer pour lui, pour un cas ou pour toute l'étude — c'est son choix et sa responsabilité. Un jeton ne remplace pas un choix humain fait pour l'étude.
 - Licences : tout composant doit être gratuit et permis en usage commercial d'entreprise, sans flou juridique. Ni ELK, ni Graphviz, ni aucune licence EPL, MPL, LGPL, GPL ou AGPL.
@@ -66,7 +66,7 @@ Un lieu durable où une IA externe dépose des cas illustrés et où des humains
 - `sources/catalogue/` : prototype réel (136 cas, 15 familles, 11 statuts), importé comme étude de démonstration.
 - `reports/Cadrage du projet Demetra.md` : rapport de cadrage et ses notes de recherche.
 - `reports/Représentations des règles et processus.md` : rapport sur les représentations à ajouter, et ses notes de recherche.
-- Les études « règles de décision » et « règles temporelles » de démonstration, l'étude de cas paramétrés, l'étude du circuit de validation (qui déclare ses règles d'atelier), ainsi que les neuf études qui illustrent le catalogue élargi, sont synthétiques : elles sont marquées « Exemple · données fictives » dans l'interface.
+- Les études « règles de décision » et « règles temporelles » de démonstration, l'étude de cas paramétrés, l'étude du circuit de validation et celle du responsable d'un magasin (qui déclarent chacune un atelier, une par famille), ainsi que les neuf études qui illustrent le catalogue élargi, sont synthétiques : elles sont marquées « Exemple · données fictives » dans l'interface.
 - Aucun client, témoignage, chiffre d'usage ni tarif n'existe : ne pas en inventer.
 
 ## Product Principles

diff --git a/README.md b/README.md
@@ -268,8 +268,8 @@ d'une exécution, leur nombre au plus, et ce qu'une exécution écrit — les se
 gagne alors un réglage « Exécutions successives » ; dès qu'il vaut 2 ou plus, chaque fiche dit à partir de
 quelle exécution sa période est connue, et jusqu'à laquelle (une correction : l'ancienne période connue jusqu'à
 la 2, la nouvelle à partir de la 3). Sous le déroulé, une section montre chaque exécution : une phrase (« 1 ligne
-ajoutée et 1 ligne fermée ; 1 ligne supprimée et 2 lignes écrites »), les périodes qu'elle découvre ou ne
-connaît plus, et l'historique qu'elle publie, chaque ligne marquée d'un mot et d'une icône — ajoutée, fermée,
+ajoutée et 1 ligne fermée ; à l'écriture : 1 ligne supprimée et 2 lignes écrites »), les périodes qu'elle découvre ou ne
+connaît plus, et l'historique qu'elle publie, chaque ligne ouverte par un mot et une icône — ajoutée, fermée,
 modifiée, inchangée, retirée — par rapport à ce qui était publié. Une exécution bloquée ne publie rien. Le
 résultat, la frise et le déroulé sont ceux de la dernière exécution. Ce qui ne s'y dit pas : une publication
 qui échoue à mi-chemin, le périmètre d'un recalcul, plusieurs entités à la fois.
@@ -278,7 +278,8 @@ qui échoue à mi-chemin, le périmètre d'un recalcul, plusieurs entités à la
 et on tire un de ses bords pour changer son début ou sa fin. Le geste se cale sur le pas de l'axe et reste dans
 l'axe ; pendant qu'on glisse, seule la barre bouge — le schéma garde ses dimensions — et l'aide sous la frise
 dit les bornes. Au lâcher, les champs « Début » et « Fin, exclue » de la fiche prennent ces valeurs et le
-résultat suit ; Échap annule. Les champs restent le moyen de tout faire au clavier, et de poser une borne plus
+résultat suit ; Échap annule. Au doigt, le geste est le même : la frise ne défile pas sous la barre qu'on
+glisse. Les champs restent le moyen de tout faire au clavier, et de poser une borne plus
 fine que le pas. Les lignes de l'historique, elles, ne se déplacent pas : elles se déduisent.
 
 **Ce que le dernier geste a changé.** Après chaque geste, l'historique marque ses lignes d'un mot et d'une

diff --git a/core/guide/atelier.md b/core/guide/atelier.md
@@ -356,7 +356,7 @@ La réponse porte un champ `runs` de plus, une entrée par exécution :
  {"run": 1, "known": ["A"], "new": ["A"], "withdrawn": [], "published": true, "blocking": [],
   "lines": [{"start": 1, "end": 6, "fields": {"offre": "A", "taux": null}, "status": "SANS_REMISE", "change": "added"}],
   "removed": [], "written": {"deleted": 0, "appended": 1},
-  "text": "Exécution 1 : 1 ligne ajoutée ; 1 ligne écrite."},
+  "text": "Exécution 1 : 1 ligne ajoutée ; à l'écriture : 1 ligne écrite."},
  {"run": 2, "known": ["A"], "new": [], "withdrawn": [], "published": true, "blocking": [],
   "lines": [{"start": 1, "end": 6, "fields": {"offre": "A", "taux": null}, "status": "SANS_REMISE", "change": "same"}],
   "removed": [], "written": {"deleted": 0, "appended": 0},
@@ -367,7 +367,7 @@ La réponse porte un champ `runs` de plus, une entrée par exécution :
             {"start": 3, "end": 5, "fields": {"offre": "A", "taux": 10}, "status": "REMISE", "change": "added"},
             {"start": 5, "end": 6, "fields": {"offre": "A", "taux": null}, "status": "SANS_REMISE", "change": "added"}],
   "removed": [], "written": {"deleted": 1, "appended": 3},
-  "text": "Exécution 3 : 2 lignes ajoutées et 1 ligne fermée ; 1 ligne supprimée et 3 lignes écrites."}]}
+  "text": "Exécution 3 : 2 lignes ajoutées et 1 ligne fermée ; à l'écriture : 1 ligne supprimée et 3 lignes écrites."}]}
 ```
 
 - Chaque exécution **recalcule tout l'historique** avec les périodes qu'elle connaît (`known` ; `new` : celles qu'elle découvre ; `withdrawn` : celles qu'elle ne connaît plus), puis le compare à ce qui était publié. Une ligne se reconnaît à son **début**.
